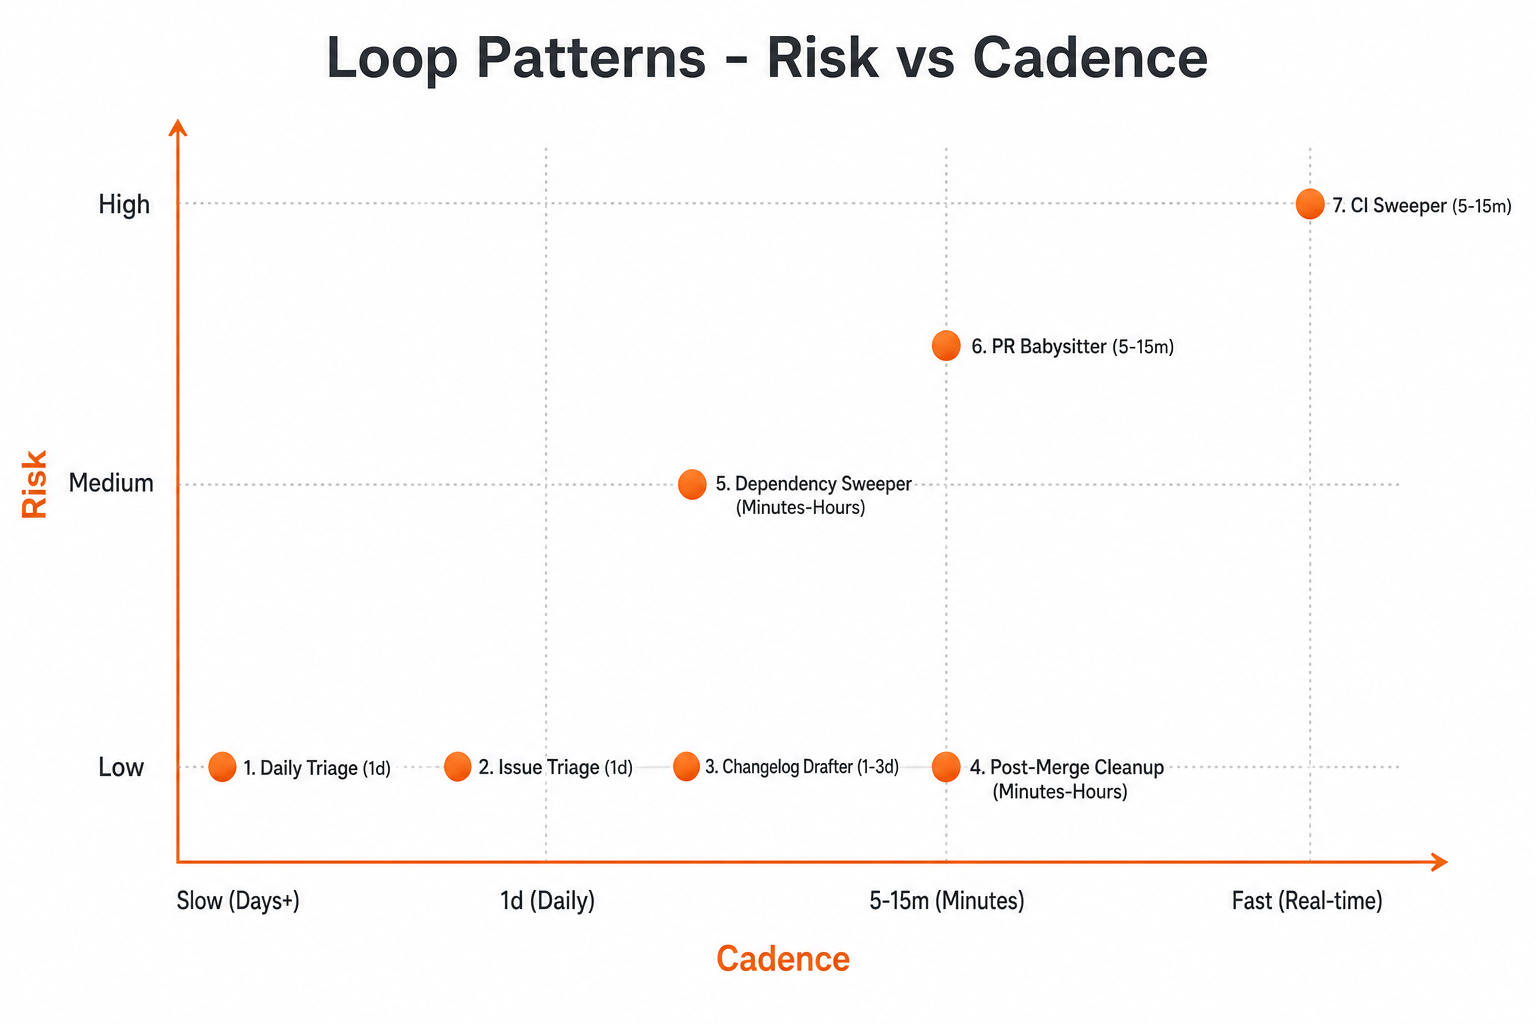
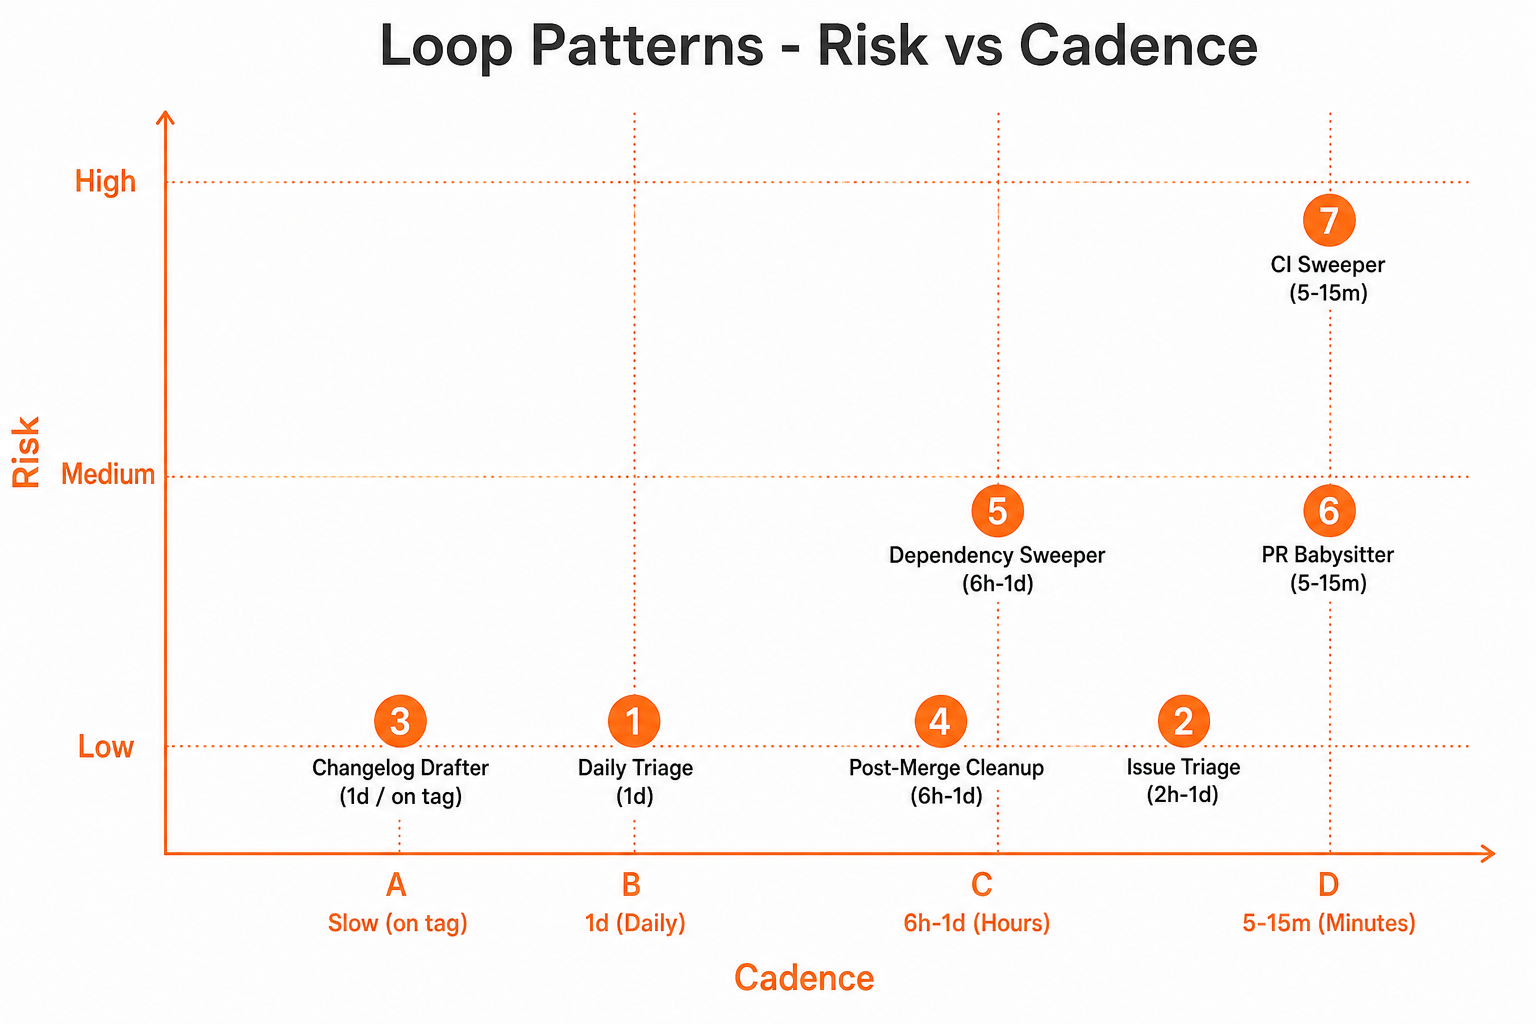
Add SeriesHighlight component to showcase featured series on the homepage. Update index.js to integrate SeriesHighlight with dynamic data for the "Loop Engineering" series. Enhance blog post pages with improved image handling for series-related content.

diff --git a/components/SeriesHighlight.js b/components/SeriesHighlight.js
@@ -1,0 +1,86 @@
+import Link from 'next/link';
+import { PostImage } from './PostImage';
+
+export default function SeriesHighlight({
+  seriesName,
+  folderName,
+  post,
+  totalParts,
+}) {
+  const { metadata } = post;
+
+  return (
+    <section aria-labelledby="featured-series-heading" className="mb-16">
+      <div className="mb-5 flex items-end justify-between gap-4">
+        <div>
+          <p className="text-sm font-semibold uppercase tracking-wider text-neutral-500">
+            Featured series
+          </p>
+          <h2
+            id="featured-series-heading"
+            className="mt-1 text-xl font-semibold tracking-tight text-neutral-900 sm:text-2xl"
+          >
+            {seriesName}
+          </h2>
+        </div>
+        <span className="shrink-0 rounded-full border border-neutral-200 bg-white px-3 py-1 text-xs font-medium text-neutral-600">
+          {totalParts} parts
+        </span>
+      </div>
+
+      <div className="overflow-hidden rounded-2xl border border-neutral-200 bg-neutral-50 shadow-sm">
+        <div className="grid lg:grid-cols-[minmax(0,1.15fr)_minmax(0,1fr)]">
+          <Link
+            href={`/blog/${folderName}`}
+            className="group relative block aspect-[16/10] overflow-hidden bg-neutral-100 lg:aspect-auto lg:min-h-[280px]"
+          >
+            {metadata.image && (
+              <PostImage
+                folderName={folderName}
+                src={metadata.image}
+                alt=""
+                fill
+                className="object-cover transition-transform duration-300 group-hover:scale-[1.02]"
+                sizes="(max-width: 1024px) 100vw, 55vw"
+              />
+            )}
+          </Link>
+
+          <div className="flex flex-col justify-center p-6 sm:p-8 lg:p-10">
+            <p className="text-sm font-medium text-neutral-500">
+              Part 1 of {totalParts}
+            </p>
+            <h3 className="mt-2 text-2xl font-semibold leading-tight tracking-tight text-neutral-900 sm:text-[1.75rem]">
+              <Link
+                href={`/blog/${folderName}`}
+                className="transition-colors hover:text-neutral-600"
+              >
+                {metadata.title}
+              </Link>
+            </h3>
+            <p className="mt-3 text-base leading-relaxed text-neutral-600">
+              {metadata.description}
+            </p>
+            <div className="mt-6 flex flex-wrap items-center gap-3">
+              <Link
+                href={`/blog/${folderName}`}
+                className="inline-flex items-center rounded-lg bg-neutral-900 px-4 py-2.5 text-sm font-medium text-white transition-colors hover:bg-neutral-800"
+              >
+                Start reading
+                <span aria-hidden="true" className="ml-1.5">
+                  →
+                </span>
+              </Link>
+              <Link
+                href="/blog"
+                className="text-sm font-medium text-neutral-600 transition-colors hover:text-neutral-900"
+              >
+                All posts
+              </Link>
+            </div>
+          </div>
+        </div>
+      </div>
+    </section>
+  );
+}

diff --git a/pages/index.js b/pages/index.js
@@ -16,6 +16,7 @@ import getPost from '../components/get-post';
 import { BlogPostList } from '../components/BlogPostList';
 import { RecentContributions } from '../components/RecentContributions';
 import { ContributionGraph } from '../components/ContributionGraph';
+import SeriesHighlight from '../components/SeriesHighlight';
 import { sortPosts } from '../lib/sort-posts';
 
 const fs = require('fs');
@@ -110,7 +111,7 @@ function ProjectCard({ name, description, href, image, external }) {
   );
 }
 
-export default function Home({ githubData, posts }) {
+export default function Home({ githubData, posts, seriesHighlight }) {
   return (
     <Layout wide>
       <div className="mb-12 flex flex-col items-start gap-6 border-b border-neutral-200 pb-12 sm:mb-16 sm:gap-8 sm:pb-16 md:flex-row md:items-center">
@@ -138,6 +139,15 @@ export default function Home({ githubData, posts }) {
           />
         </div>
       </div>
+
+      {seriesHighlight && (
+        <SeriesHighlight
+          seriesName="Loop Engineering"
+          folderName={seriesHighlight.folderName}
+          post={seriesHighlight.post}
+          totalParts={seriesHighlight.totalParts}
+        />
+      )}
 
       <div className="mb-8 flex items-end justify-between border-b border-neutral-200 pb-4">
         <h2 className="text-sm font-semibold uppercase tracking-wider text-neutral-500">
@@ -212,11 +222,32 @@ export async function getStaticProps() {
     )
   );
 
+  const publishedPosts = process.env.IS_DEVELOPMENT
+    ? posts
+    : posts.filter((p) => !p.post.metadata.draft);
+
+  const loopEngineeringSeries = publishedPosts
+    .filter(
+      (entry) =>
+        entry.post.metadata.seriesOrder &&
+        entry.post.metadata.categories?.includes('loop-engineering')
+    )
+    .sort(
+      (a, b) => a.post.metadata.seriesOrder - b.post.metadata.seriesOrder
+    );
+
+  const firstSeriesPost = loopEngineeringSeries[0] ?? null;
+
   return {
     props: {
-      posts: process.env.IS_DEVELOPMENT
-        ? posts
-        : posts.filter((p) => !p.post.metadata.draft),
+      posts: sortPosts(publishedPosts),
+      seriesHighlight: firstSeriesPost
+        ? {
+            folderName: firstSeriesPost.folderName,
+            post: firstSeriesPost.post,
+            totalParts: loopEngineeringSeries.length,
+          }
+        : null,
       githubData,
     },
     revalidate: GITHUB_REVALIDATE_SECONDS,

diff --git a/pages/blog/[slug].js b/pages/blog/[slug].js
@@ -118,6 +118,20 @@ const Post = ({ folderName, post: { metadata, mdxSource }, seriesNav }) => {
             <time dateTime={metadata.dateRaw}>{metadata.date}</time>
           </div>
 
+          {metadata.image && (
+            <div className="relative mb-6 aspect-[16/10] w-full overflow-hidden rounded-xl border border-neutral-200 bg-neutral-100 sm:mb-8">
+              <PostImage
+                folderName={folderName}
+                src={metadata.image}
+                alt=""
+                fill
+                className="object-cover"
+                priority
+                sizes="(max-width: 768px) 100vw, 672px"
+              />
+            </div>
+          )}
+
           <h1 className="text-2xl font-semibold leading-tight tracking-tight text-neutral-900 sm:text-3xl md:text-[2.75rem] md:leading-[1.15]">
             {metadata.title}
           </h1>